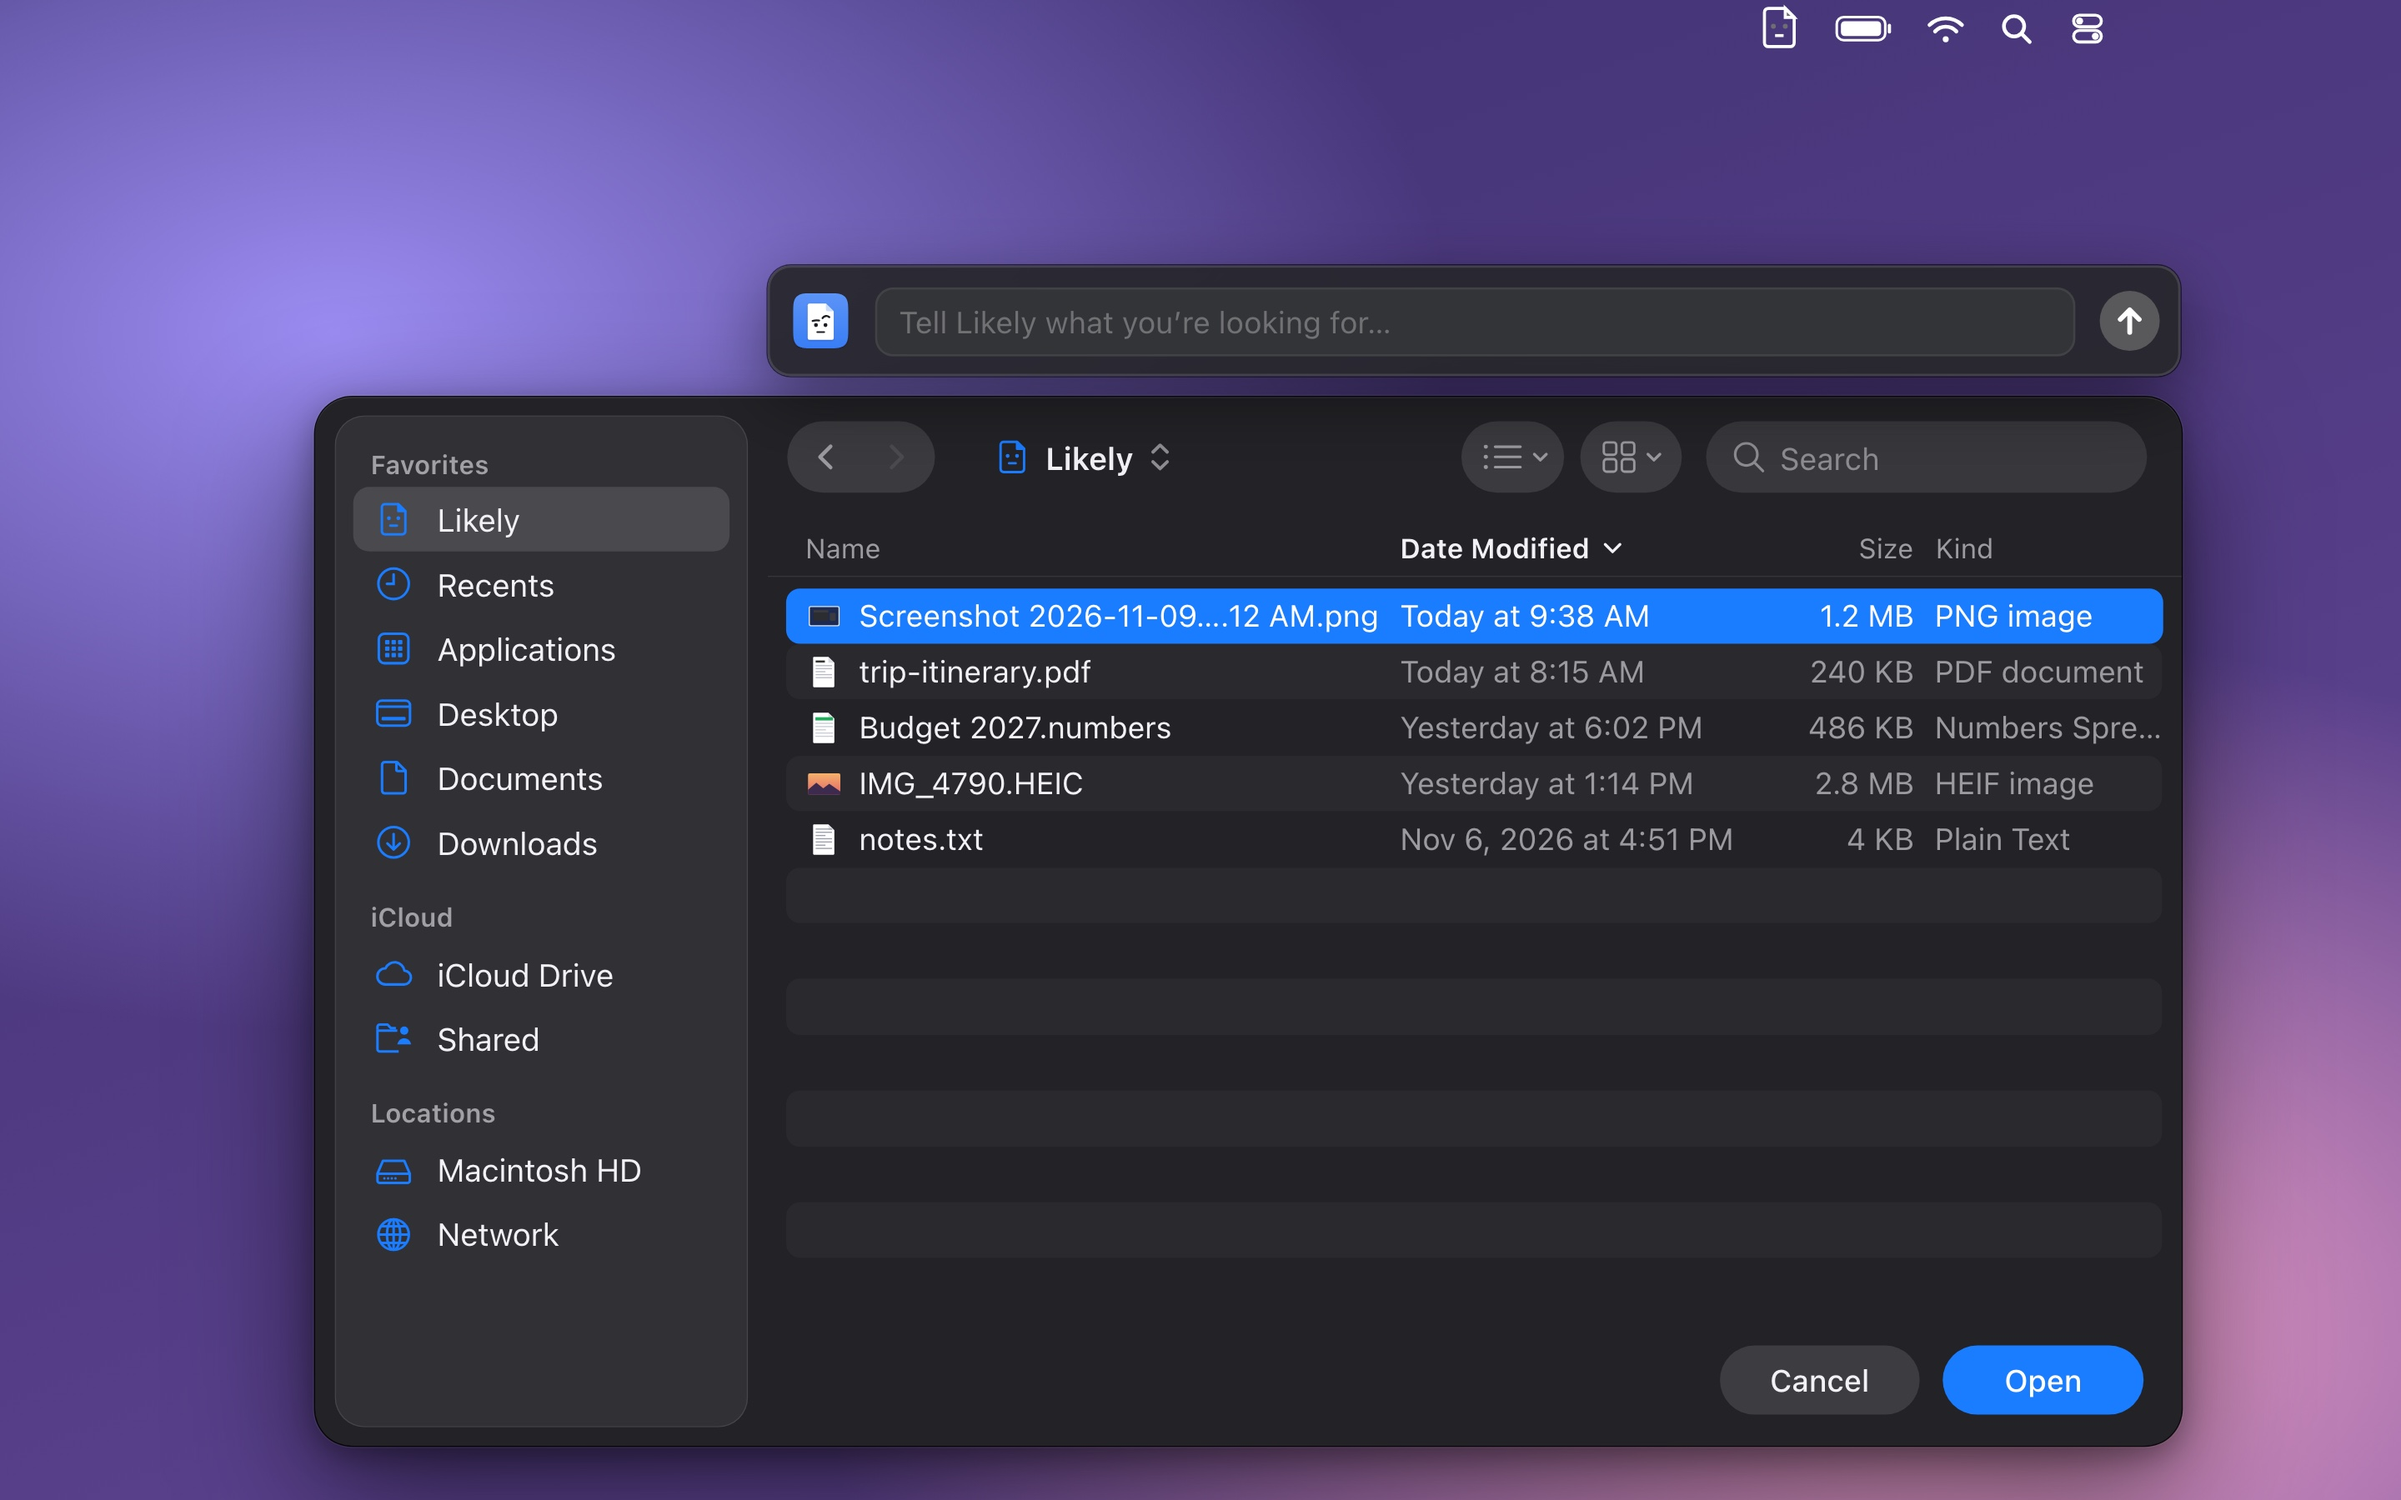
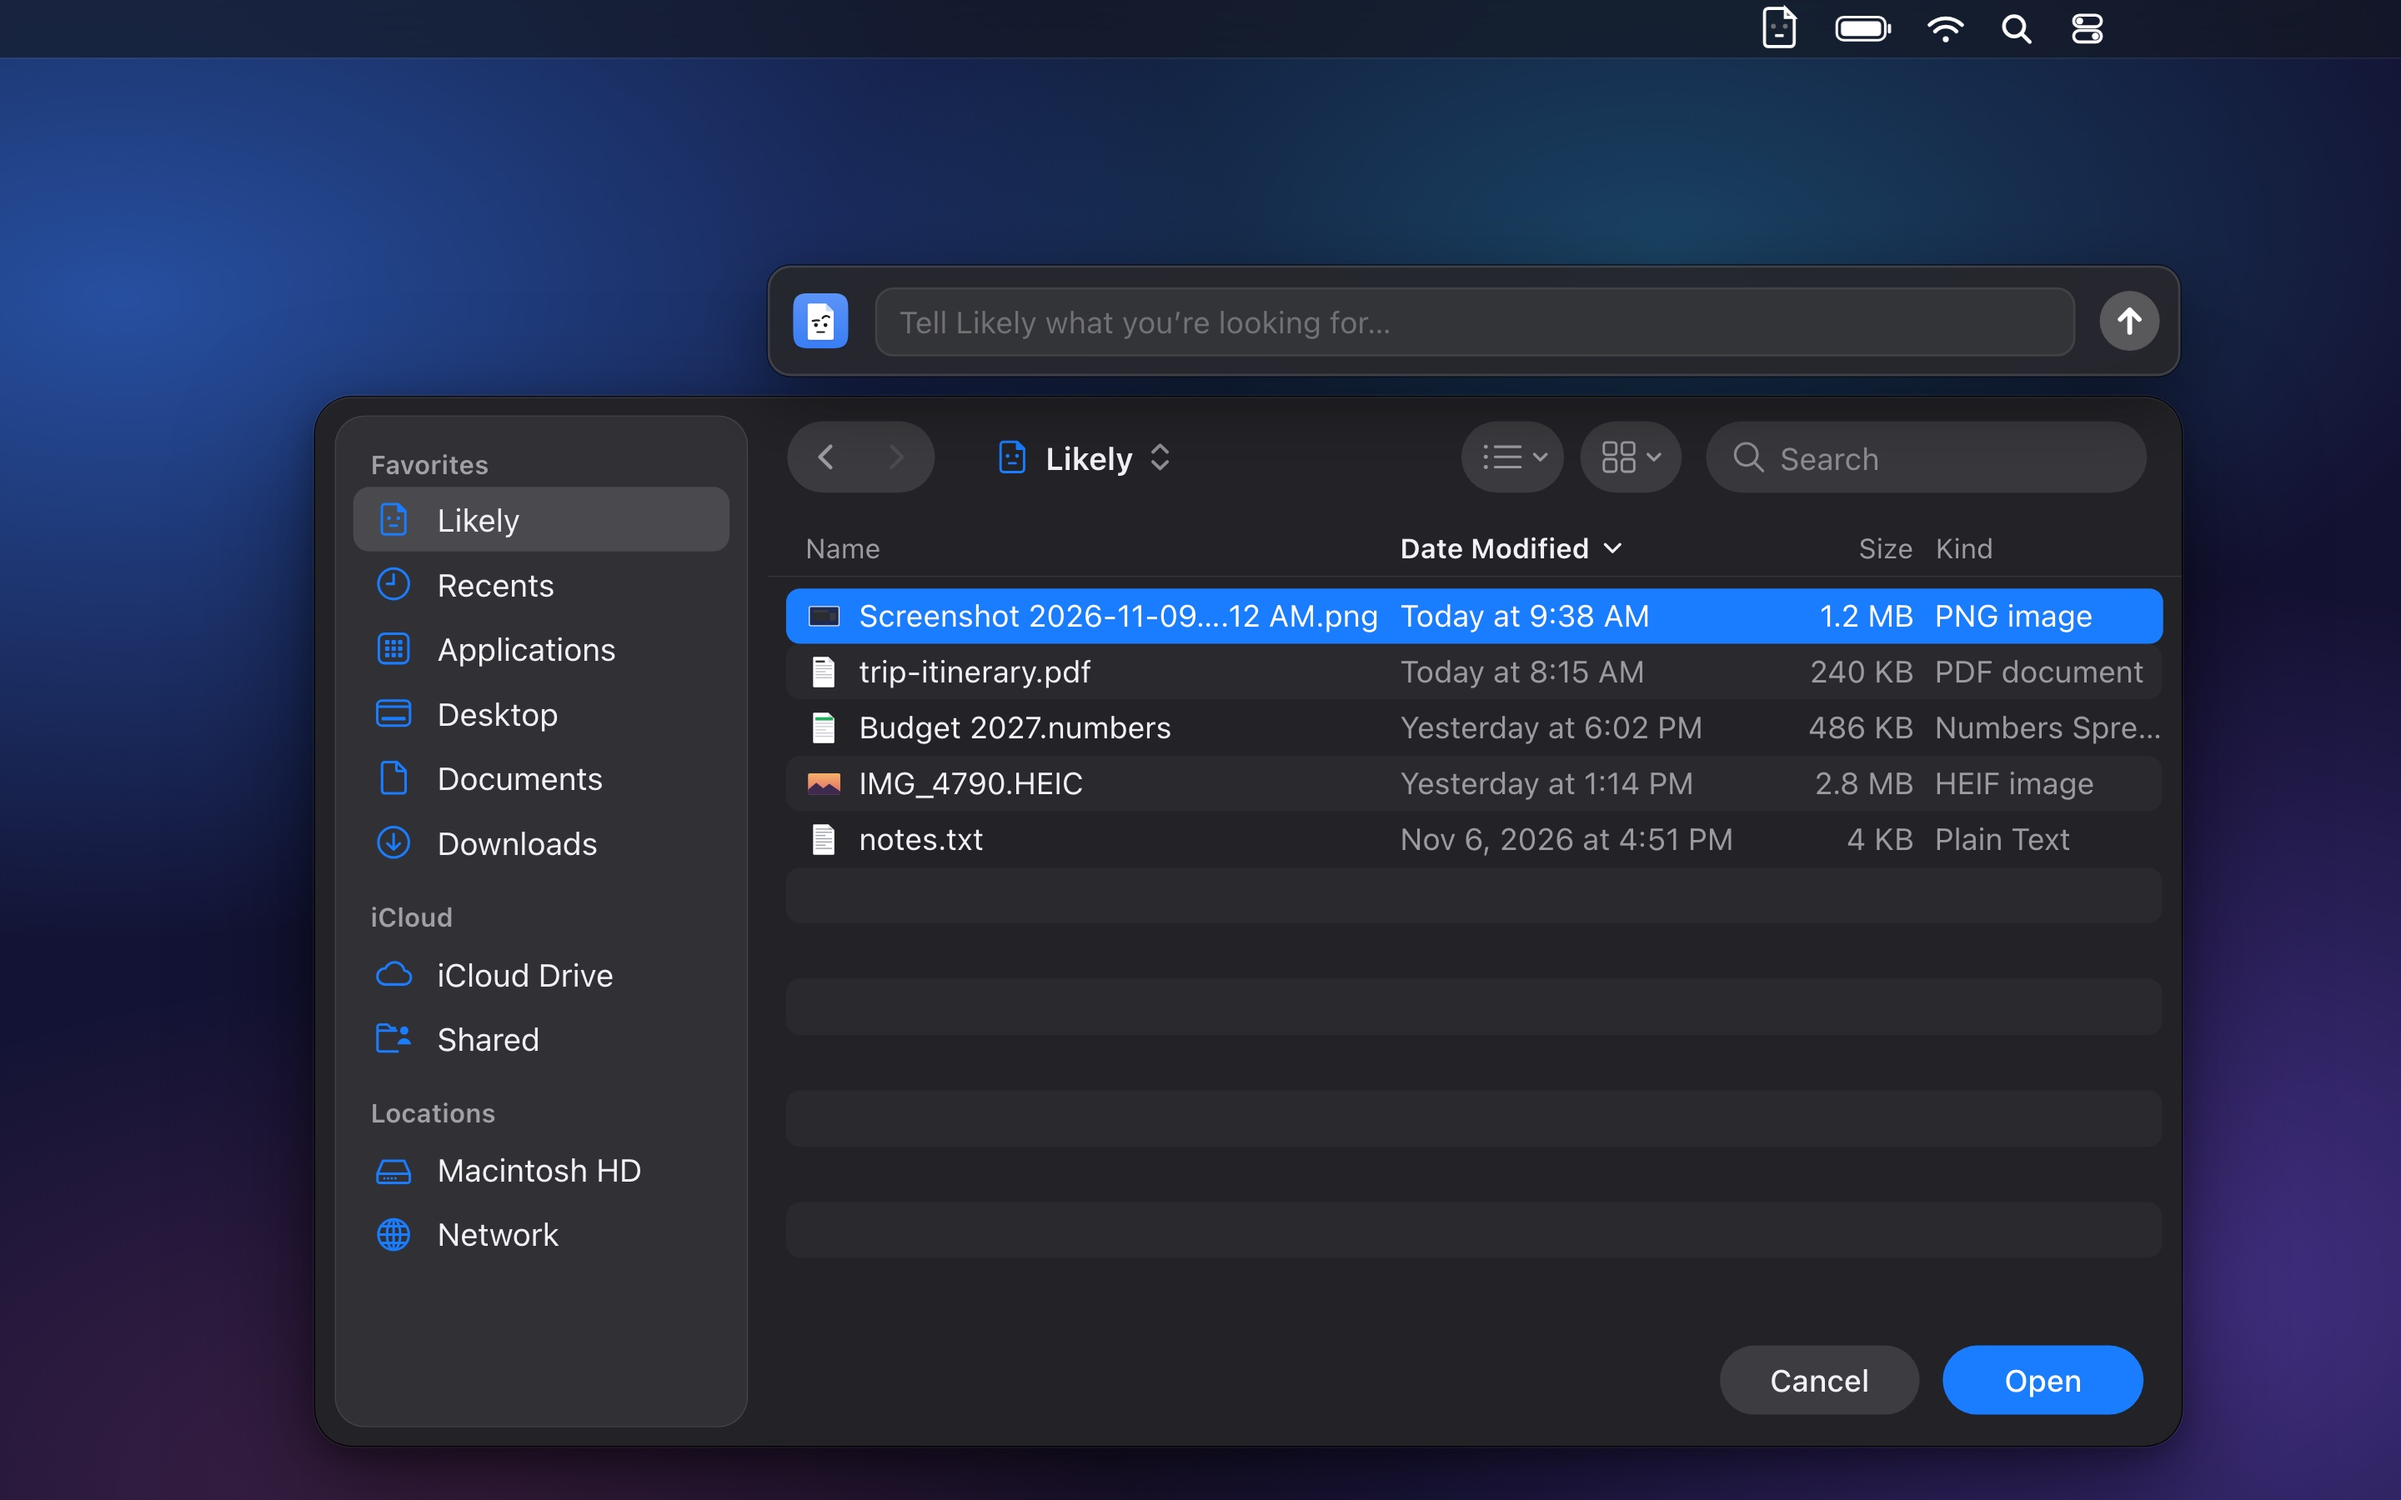
Landing: whole-app still on the blue aurora with a dark menu bar, shown wider (1120px)
Claude-Session: https://claude.ai/code/session_011QtFqufH492azCARw1Fkx5

diff --git a/docs/assets/wa.css b/docs/assets/wa.css
@@ -1,5 +1,5 @@
 /* Likely "This is the whole app." interactive screenshot */
-.wa{position:relative;margin:40px auto 0;max-width:860px;container-type:inline-size;border-radius:clamp(10px,1.6cqw,16px);
+.wa{position:relative;margin:40px auto 0;max-width:1120px;container-type:inline-size;border-radius:clamp(10px,1.6cqw,16px);
   --wa-blue:#387DF5;--wa-ink:#16171A;font-family:-apple-system,"SF Pro Text",BlinkMacSystemFont,"Helvetica Neue",sans-serif}
 .wa-base{display:block;width:100%;height:auto;aspect-ratio:16/10;border-radius:inherit;box-shadow:0 0 0 1px rgba(224,229,255,.10),0 24px 60px rgba(0,0,0,.35)}
 .wa-dim{position:absolute;inset:0;border-radius:inherit;background:rgba(6,8,14,.28);opacity:0;transition:opacity .2s ease;pointer-events:none}

diff --git a/docs/assets/style.css b/docs/assets/style.css
@@ -103,6 +103,8 @@ h1 em { font-style: normal; color: var(--text-2); }
 /* "How it works" sits right under the demo, then "This is the whole app": 100px between each. */
 .demo + #how { padding-top: 0; }
 #how + .whole { padding-top: 100px; }
+/* The whole-app picture runs wider than the text column. */
+.whole.wrap { width: min(1120px, 100% - 48px); }
 .video-panel { border-radius: var(--r-panel); overflow: hidden; background: var(--fill); aspect-ratio: 16 / 10; }
 .video-panel video { display: block; width: 100%; height: 100%; object-fit: cover; background: #1C1D21; }
 
